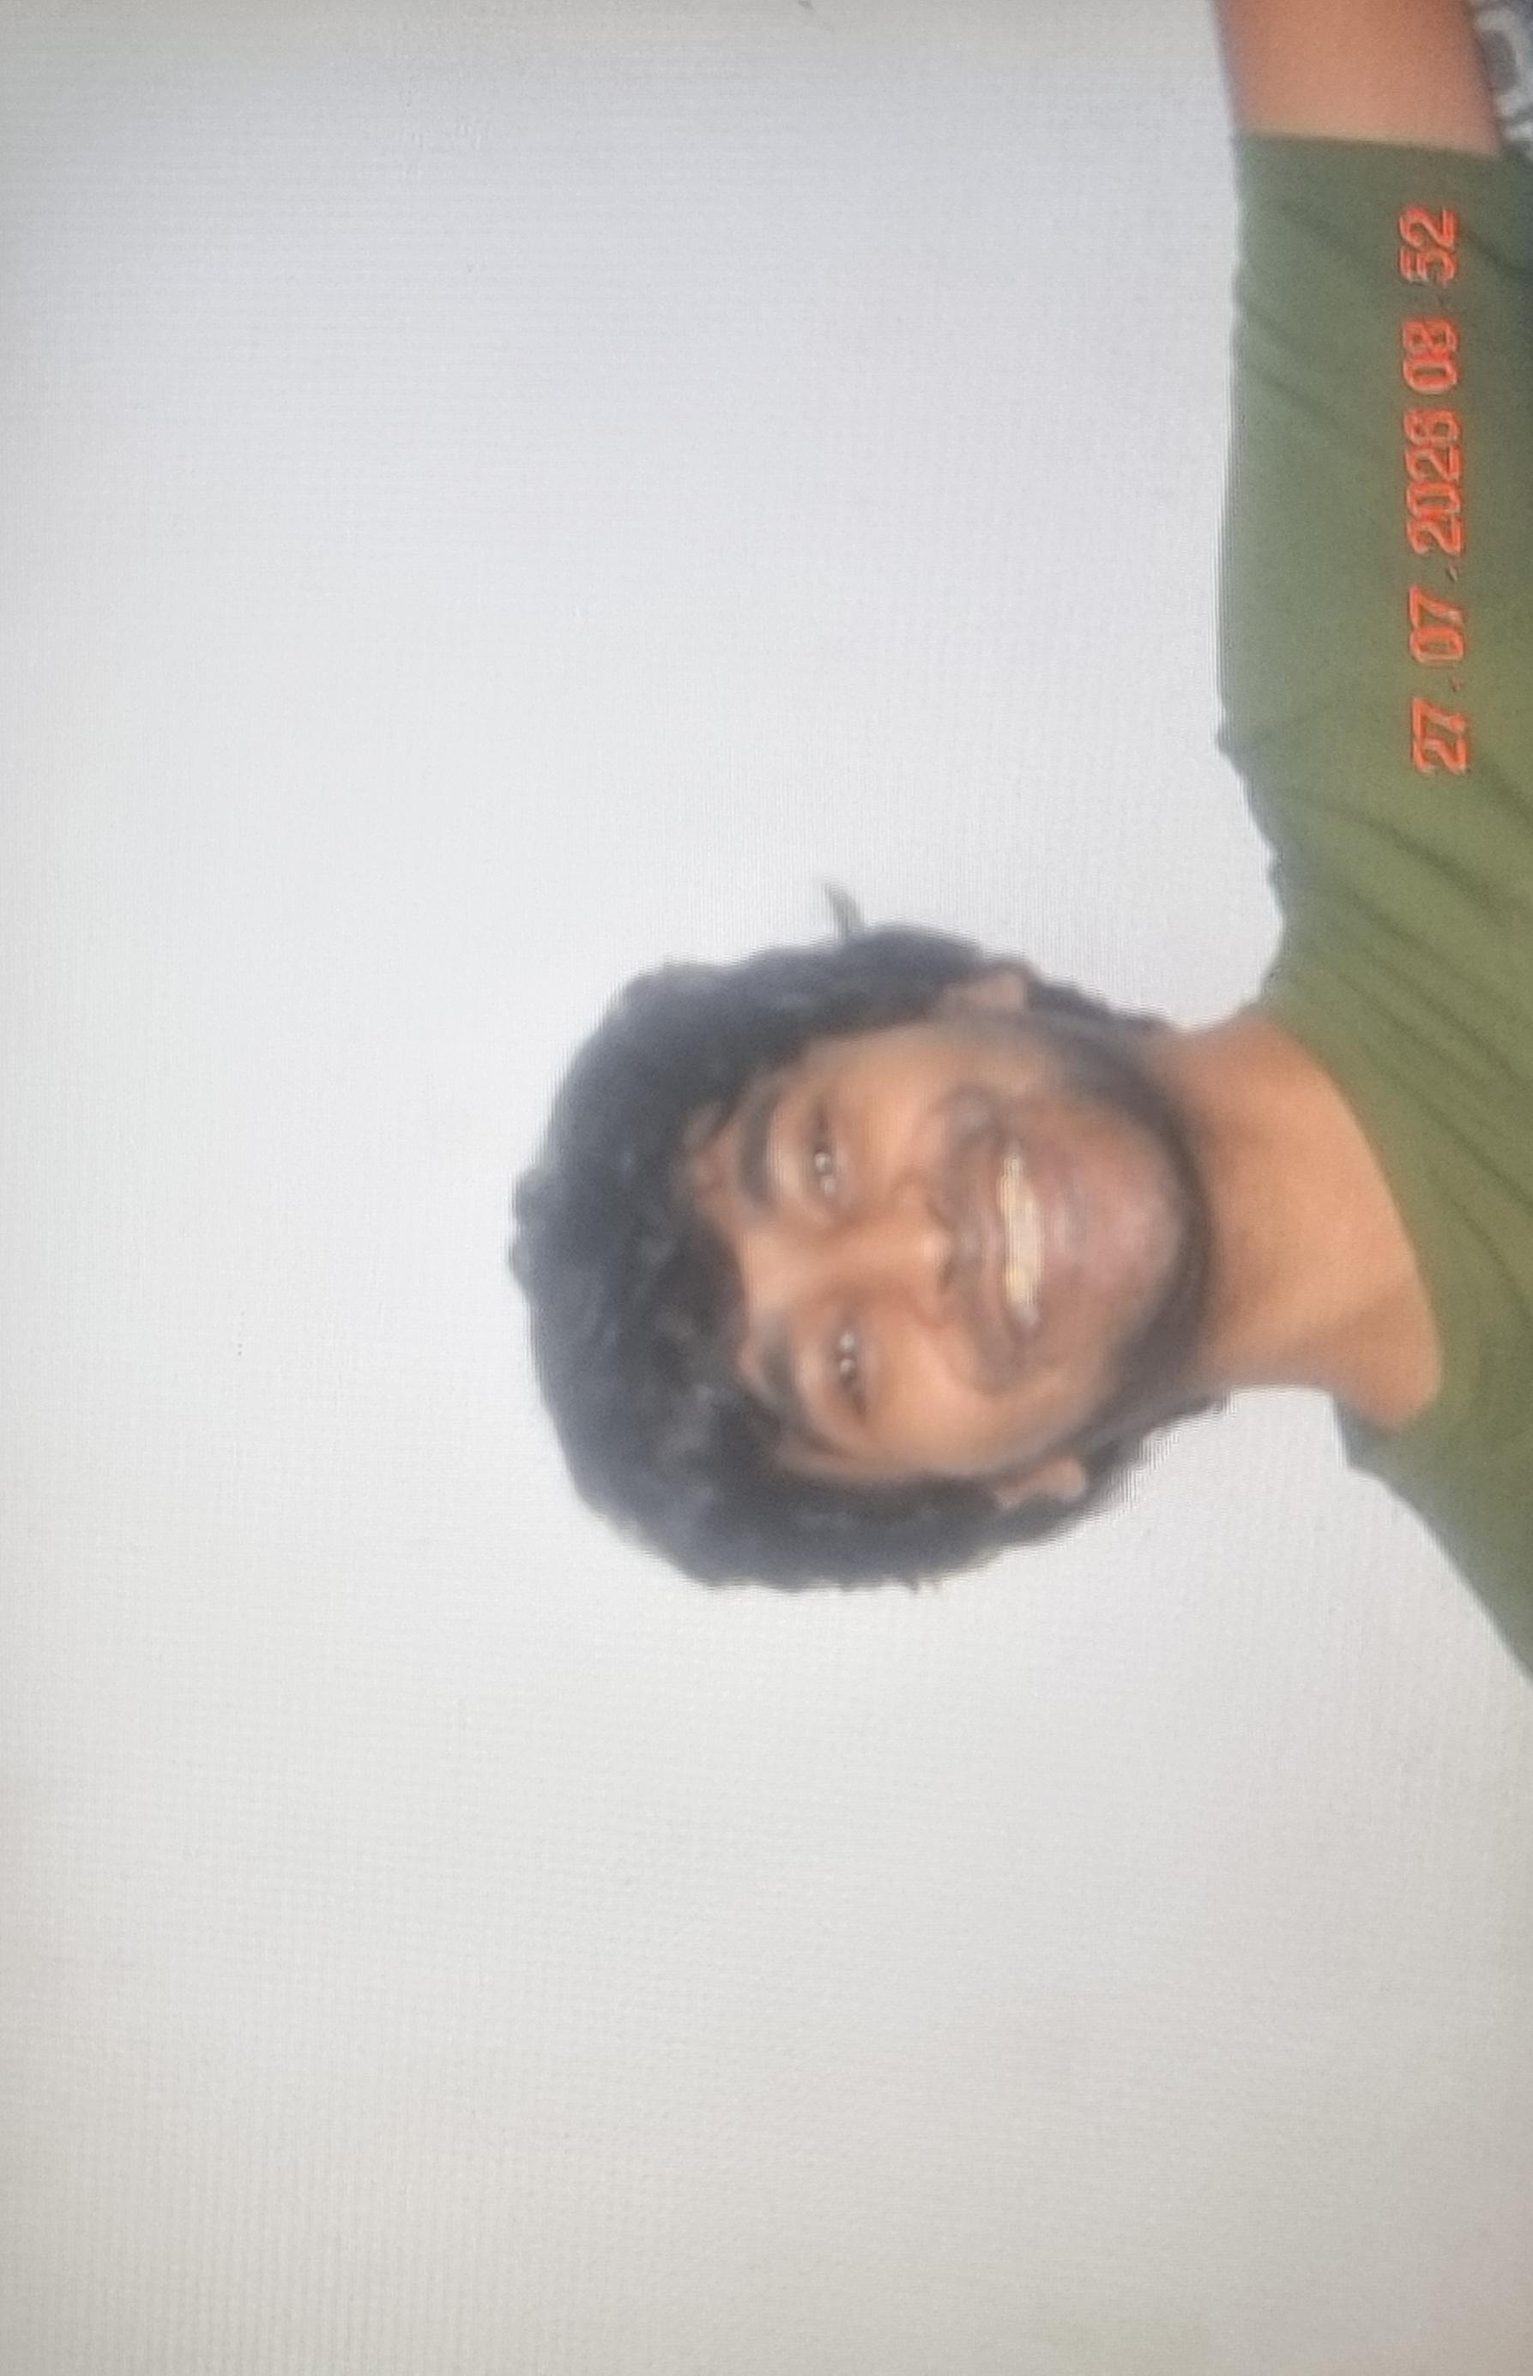
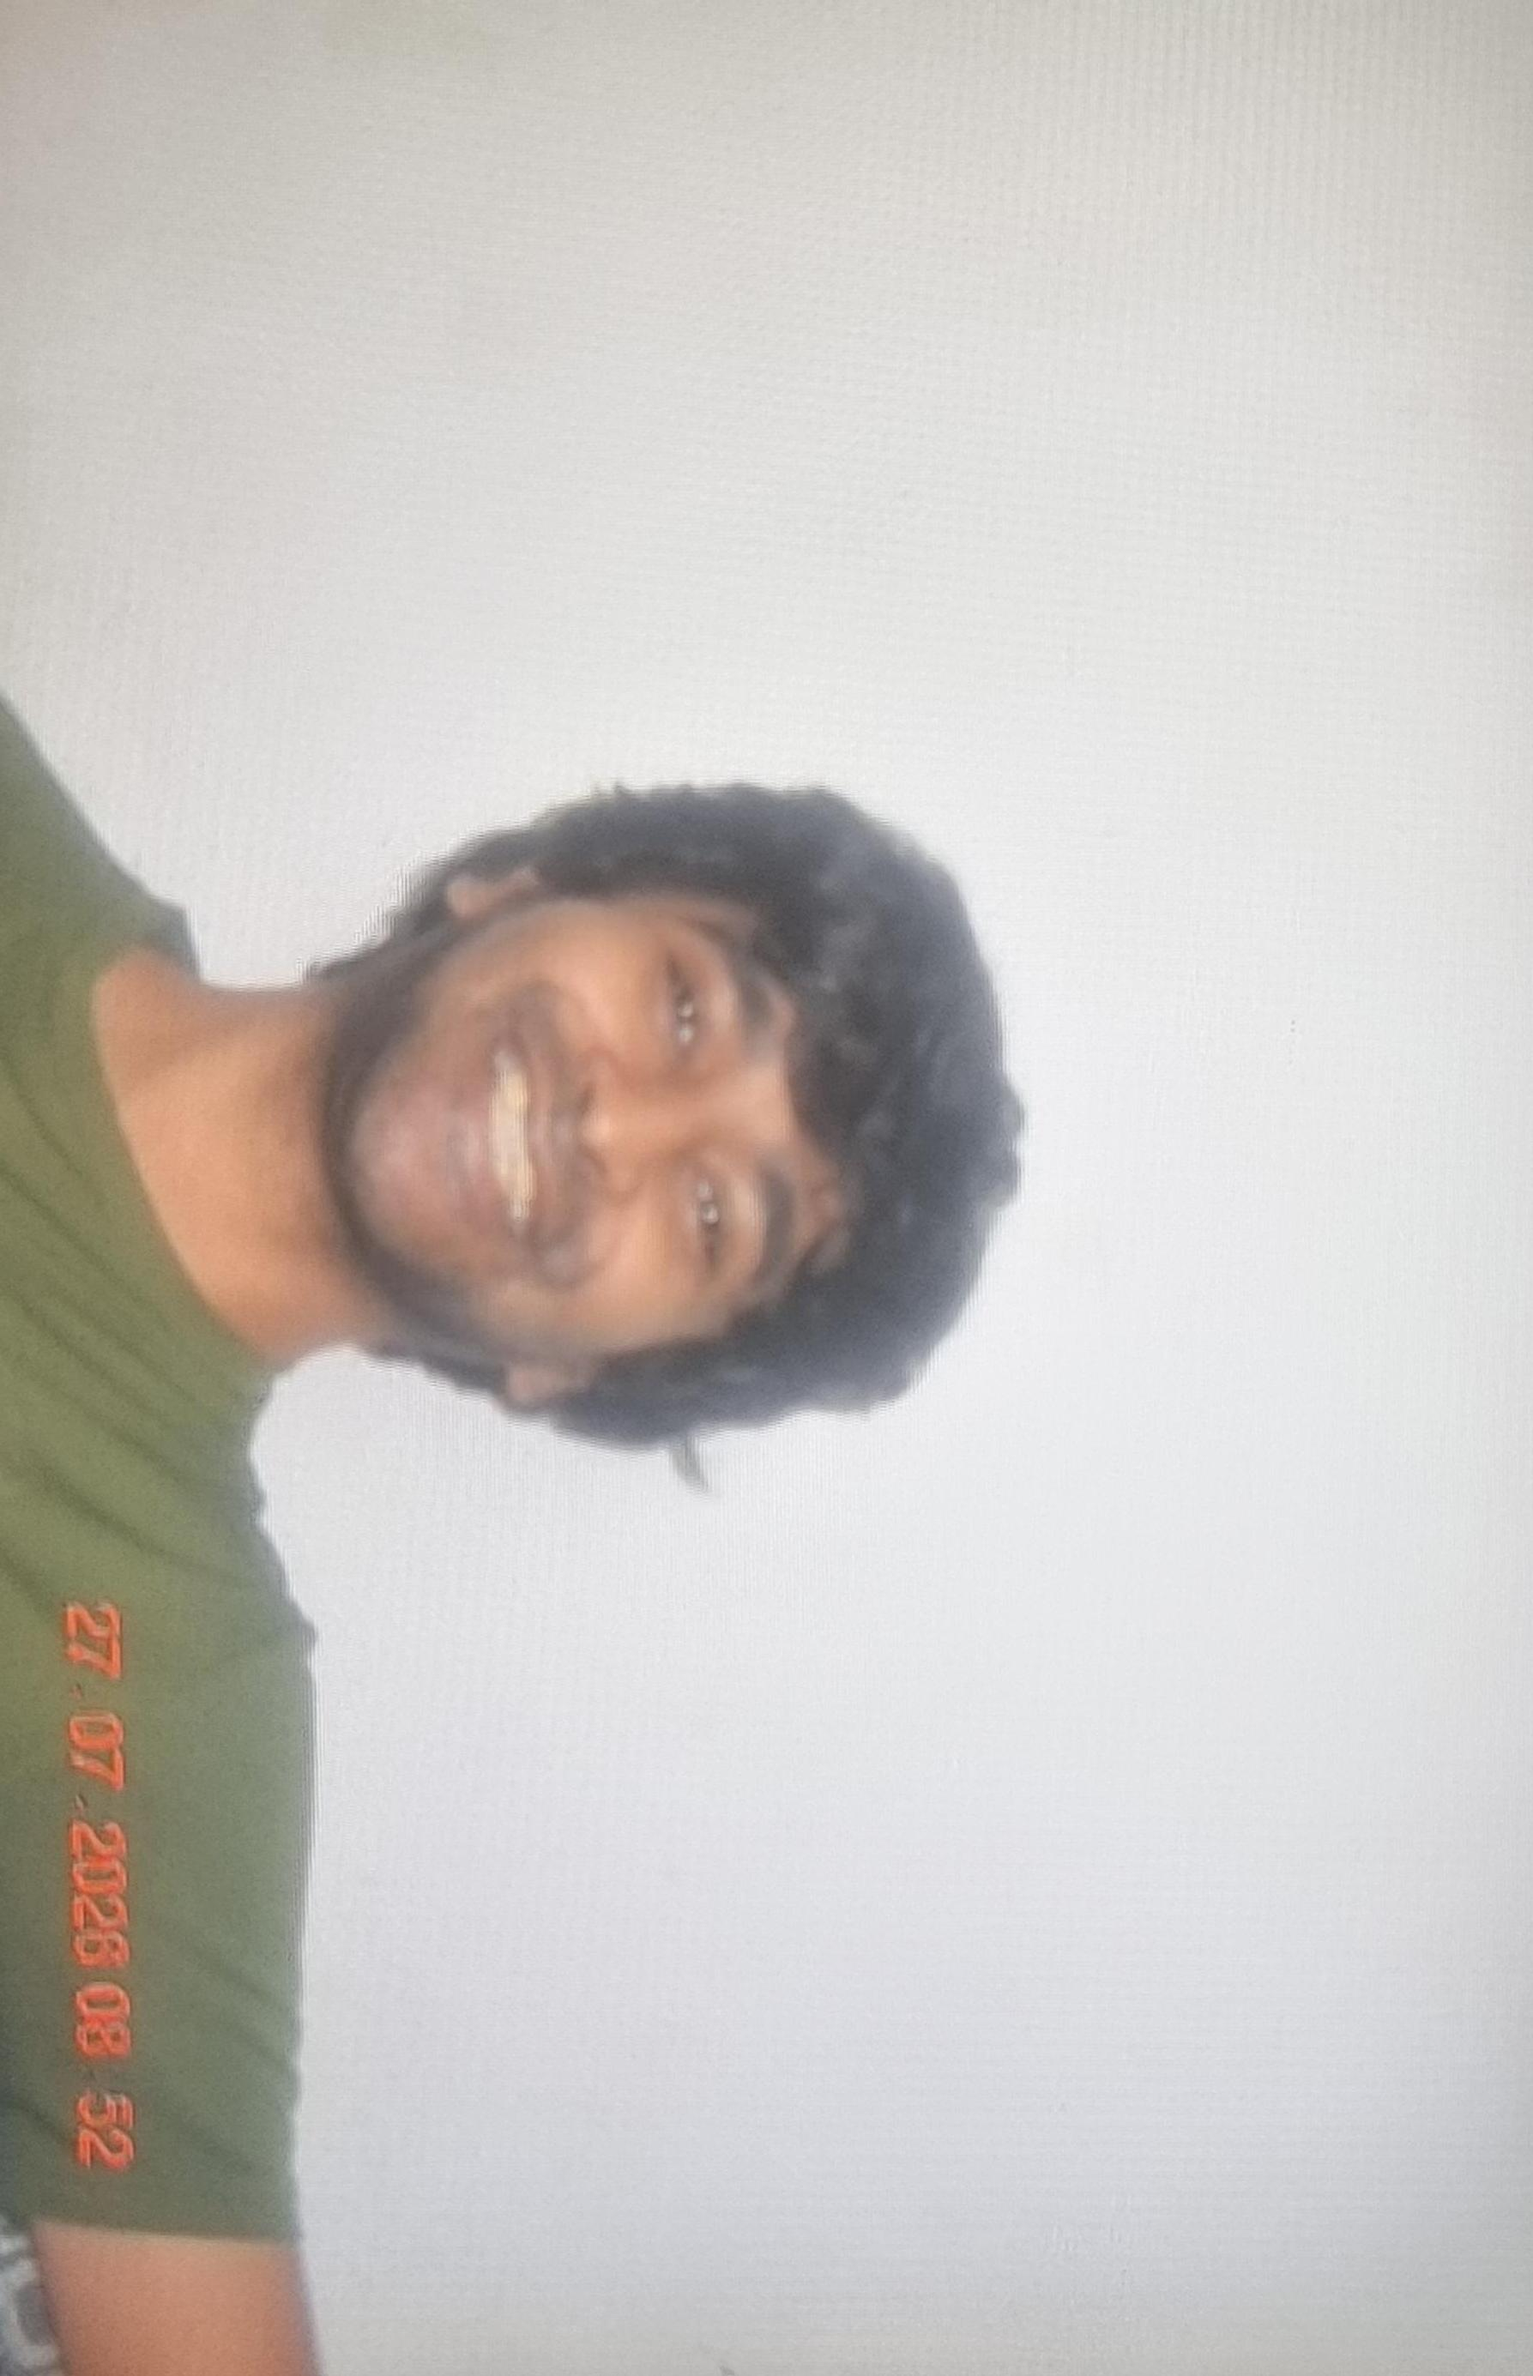
Rotate new images 180 degrees to fix upside down issue

diff --git a/fix_upside_down.py b/fix_upside_down.py
@@ -1,0 +1,13 @@
+from PIL import Image
+import os
+
+images = ["public/images/2.jpg", "public/images/20260727_223746.jpg", "public/images/3.jpg"]
+for img_path in images:
+    if os.path.exists(img_path):
+        with Image.open(img_path) as img:
+            # The user says they are upside down, so we rotate 180 degrees to make them upright
+            rotated = img.transpose(Image.ROTATE_180)
+            rotated.save(img_path)
+            print(f"Rotated {img_path} 180 degrees to fix upside down")
+    else:
+        print(f"Not found: {img_path}")
